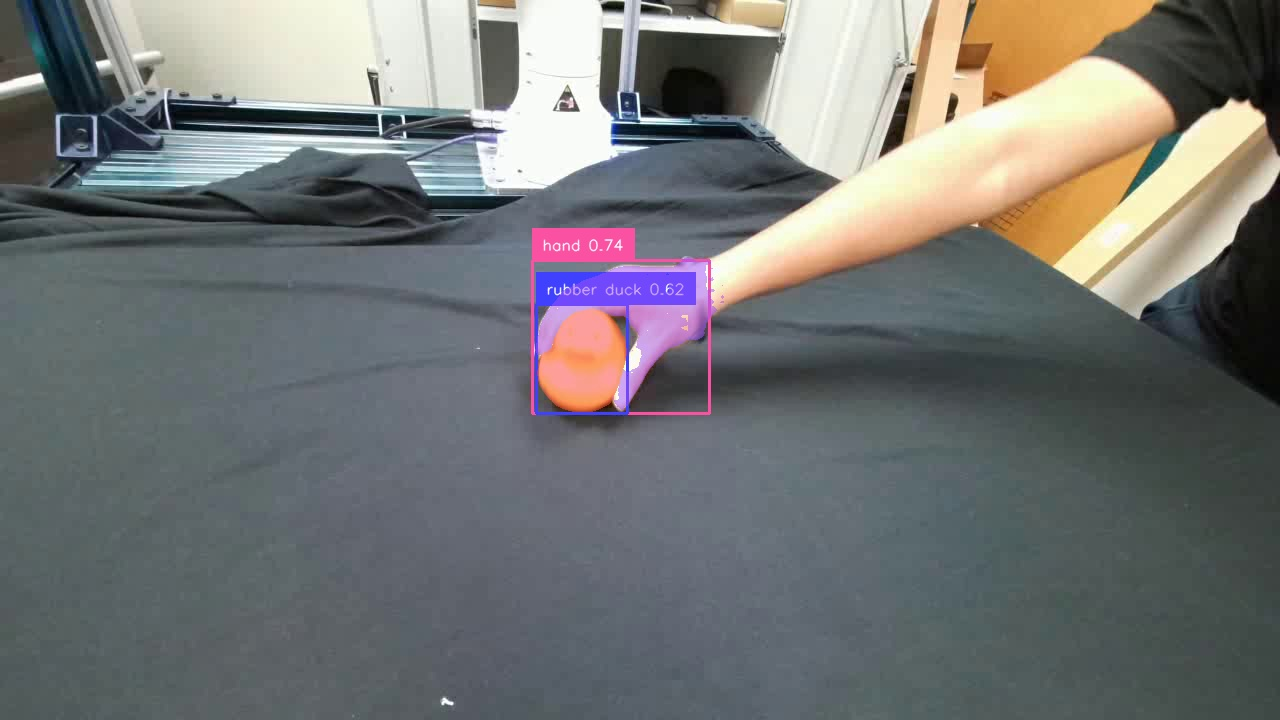
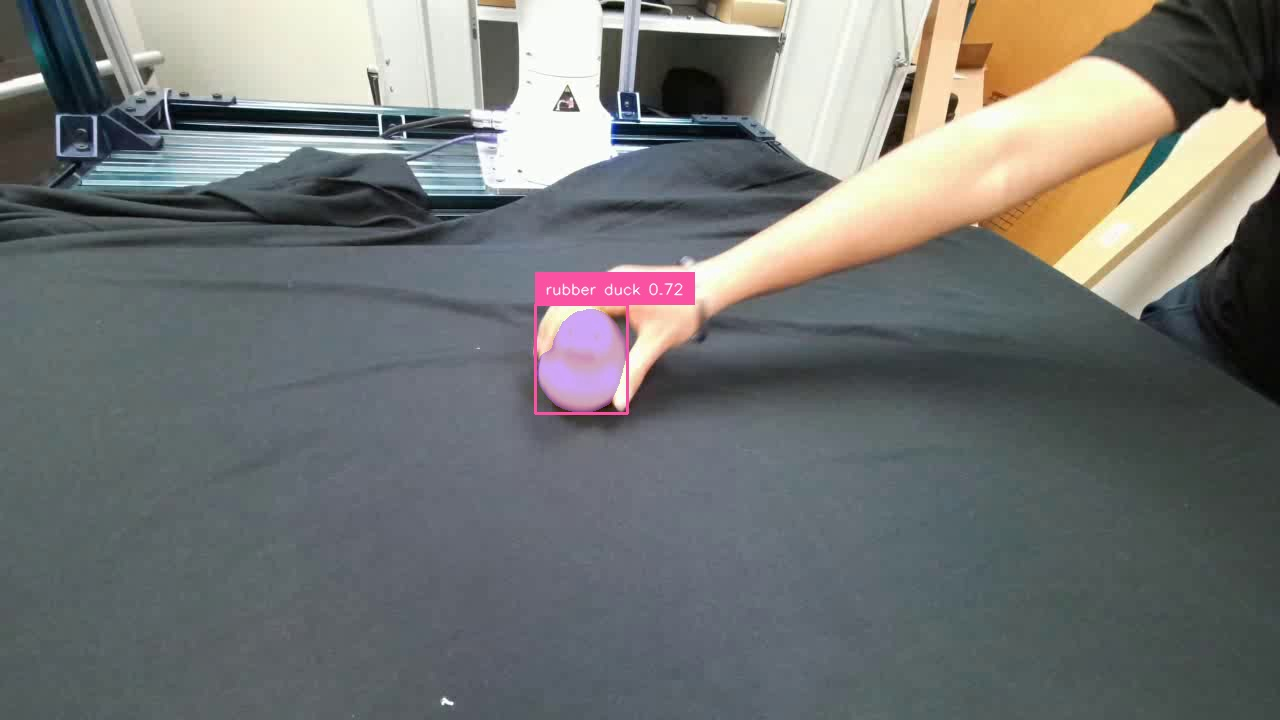
cotracker inference works, setting up detection logic

Changed region(s): [[0.4062, 0.3056, 0.5625, 0.5806]]

diff --git a/generate_data.py b/generate_data.py
@@ -1,12 +1,22 @@
 from gsam_wrapper import GSAM2
+from cotracker_wrapper import Cotracker3
 
-object_names = "hand. rubber duck."             # First mask should always be hand
+object_names = "rubber duck."
 video_path = "assets/videos/duck/rgb_vid.mp4"
 frame = 0
 device = "cuda:1"
 
+# Instantiate modules
 gsam2 = GSAM2(device)
+cotracker3 = Cotracker3(device)
+
+# GSAM inference
 masks, scores, logits, confidences, labels, input_boxes = gsam2.get_masks(object_names, video_path, frame)
 gsam2.visualize(video_path, masks, confidences, labels, input_boxes, frame)
+
+# Cotracker inferences
+masks = masks[0, 0]     # TODO: Generalize to multi-object
+pred_tracks, pred_visibility = cotracker3.get_tracks(video_path, masks)
+cotracker3.visualize(video_path, pred_tracks, pred_visibility)
 
 print("Done")

diff --git a/cotracker_wrapper.py b/cotracker_wrapper.py
@@ -59,5 +59,5 @@ class Cotracker3:
         frames = iio.imread(video_path, plugin="FFMPEG")  # plugin="pyav"
         video = torch.tensor(frames).permute(0, 3, 1, 2)[None].float().to(self.device)  # B T C H W
         
-        vis = Visualizer(save_dir="./output", pad_value=120, linewidth=3)
+        vis = Visualizer(save_dir="./outputs", pad_value=120, linewidth=3)
         vis.visualize(video, pred_tracks, pred_visibility) #, segm_mask = mask)

diff --git a/gsam_wrapper.py b/gsam_wrapper.py
@@ -113,6 +113,9 @@ class GSAM2:
             multimask_output=False,
         )
 
+        if len(masks.shape) == 3:
+            masks = masks[np.newaxis, :]
+
         return masks, scores, logits, confidences, labels, input_boxes
     
     def visualize(self, video_path, masks, confidences, labels, input_boxes, frame = 0):
